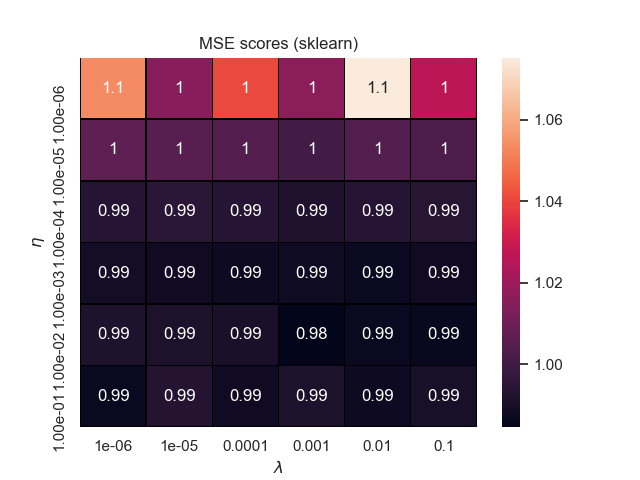
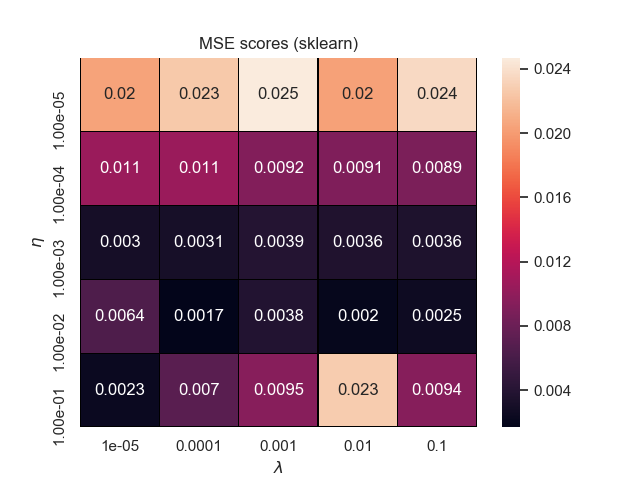
Small updates

diff --git a/Project2/main.py b/Project2/main.py
@@ -90,7 +90,7 @@ if arg == "Log":
 	= func.scikit(X_train, X_test, y_train, y_test, model)
 
 	# Calculating the different metrics
-	accuracy_test =  func.accuracy(model, y_test)
+	accuracy_test = func.accuracy(model, y_test)
 	TPR 	      = func.recall(y_test, model)
 	precision     = func.precision(y_test, model)
 	F1_score      = func.F1_score(y_test, model)
@@ -165,42 +165,40 @@ elif arg == "NN":
     n_hidden_neurons = 50 #not sure about number???
     n_categories 	 = 2
 
-    make_files = False
-    if make_files:
-        # grid search
-        for i, eta in enumerate(eta_vals):
-            for j, lmbd in enumerate(lmbd_vals):
-                dnn = NN(X_train_sc, Y_train_onehot, eta=eta, lmbd=lmbd, epochs=epochs, batch_size=batch_size, n_hidden_neurons=n_hidden_neurons, n_categories=n_categories)
-                dnn.train()
+    def heatmap():
+	    if make_files:
+	        # grid search
+	        for i, eta in enumerate(eta_vals):
+	            for j, lmbd in enumerate(lmbd_vals):
+	                dnn = NN(X_train_sc, Y_train_onehot, eta=eta, lmbd=lmbd, epochs=epochs, batch_size=batch_size, n_hidden_neurons=n_hidden_neurons, n_categories=n_categories)
+	                dnn.train()
 
-                DNN_numpy[i][j] = dnn
-                test_predict    = dnn.predict(X_test_sc)
+	                DNN_numpy[i][j] = dnn
+	                test_predict    = dnn.predict(X_test_sc)
 
-                accuracy_array[i][j] = accuracy_score(y_test, test_predict)
+	                accuracy_array[i][j] = accuracy_score(y_test, test_predict)
 
-                print("Learning rate  = ", eta)
-                print("Lambda = ", lmbd)
-                print("Accuracy score on test set: ", accuracy_score(y_test, test_predict))
-                print()
+	                print("Learning rate  = ", eta)
+	                print("Lambda = ", lmbd)
+	                print("Accuracy score on test set: ", accuracy_score(y_test, test_predict))
+	                print()
 
-        np.save('acc_score', accuracy_array)
-        np.save('eta_values', eta_vals)
-        np.save('lambda_values', lmbd_vals)
+	        np.save('acc_score', accuracy_array)
+	        np.save('eta_values', eta_vals)
+	        np.save('lambda_values', lmbd_vals)
 
-        P.map()
+	        P.map()
+    heatmap()
 
-
-    # Use best values
+    # Use best values from heatmap
     eta_final  = 1e-4
     lmbd_final = 1e-4
 
-	dnn_f = NN(X_train_sc, Y_train_onehot, eta=eta_final, lmbd=lmbd_final, epochs=epochs, batch_size=batch_size, n_hidden_neurons=n_hidden_neurons, n_categories=n_categories)
+    dnn_f = NN(X_train_sc, Y_train_onehot, eta=eta_final, lmbd=lmbd_final, epochs=epochs, batch_size=batch_size, n_hidden_neurons=n_hidden_neurons, n_categories=n_categories)
     dnn_f.train()
 
     y_predict = dnn_f.predict(X_test_sc)
-    #print(accuracy_score(y_test, y_predict))
-
-    model = y_predict
+    model     = y_predict
 
     p = func.probabilities(model)
     notP = 1 - np.ravel(p)
@@ -234,8 +232,6 @@ elif arg == "NN":
     print('The precision is : %.3f' % precision)
     print('The recall is    : %.3f' % TPR)
     print('The AUC is       : %.3f' % AUC_scikit)
-    print('The MSE value is : %.3f' % func.MeanSquaredError(y_test, model)) # NOE GALT HER
-    print('The R2 score is  : %.3f' % func.R2_ScoreFunction(y_test, model)) # NOE GALT HER
     print('-------------------------------------------')
 
 else:

diff --git a/Project2/nn_linreg_sklearn.py b/Project2/nn_linreg_sklearn.py
@@ -5,6 +5,7 @@ import sys
 import numpy 			 	 	as np
 import seaborn 			 	 	as sns
 import matplotlib.pyplot 	 	as plt
+import scikitplot       		as skplt
 
 from sklearn.neural_network  	import MLPRegressor
 from sklearn.metrics 		 	import mean_squared_error, classification_report, confusion_matrix
@@ -35,11 +36,11 @@ X      = func.create_X(XX, YY, n)
 
 X_train, X_test, y_train, y_test = train_test_split(X, z, test_size=1.0/k) # Ikke splitte?
 
-epochs     = 500 #1000
-batch_size = 50  #60 #500
+epochs     = 1000
+batch_size = 100
 
-eta_vals   = np.logspace(-7, -3, 5)
-lmbd_vals  = np.logspace(-7, -3, 5)
+eta_vals   = np.logspace(-5, -1, 5)
+lmbd_vals  = np.logspace(-5, -1, 5)
 
 MSE        = np.zeros((len(eta_vals), len(lmbd_vals)))
 R2         = np.zeros((len(eta_vals), len(lmbd_vals)))
@@ -58,16 +59,15 @@ def not_now():
 
 			reg.fit(X_train, y_train)
 			y_pred    = reg.predict(X_test)  # data
-			MSE[i][j] = mean_squared_error(y_test, y_pred)
-			R2[i][j]  = reg.score(X_test, y_test) # reg.score(X_test, y_pred)
+			model     = reg.predict(X).reshape(N,N)
 
-			#y_pred = np.reshape(y_pred, (N, N))
+			MSE[i][j] = func.MeanSquaredError(ZZ, model)
+			R2[i][j]  = func.R2_ScoreFunction(ZZ, model)
 
 			print("Learning rate = ", eta)
 			print("Lambda =        ", lmbd)
-			print("MSE score:      ", mean_squared_error(y_test, y_pred) )
-			print("R2 score:       ", reg.score(X_test, y_test) ) #reg.score(X_test, y_pred))
-			#print("R2 score:       ", reg.score(X_test, y_pred))  # Blir alltid 1.0
+			print("MSE score:      ", func.MeanSquaredError(ZZ, model))
+			print("R2 score:       ", func.R2_ScoreFunction(ZZ, model))
 			print()
 
 	etas = ["{:0.2e}".format(i) for i in eta_vals]
@@ -89,29 +89,25 @@ def not_now():
 #not_now()
 
 
-# Plot real function and model
+# Plot real function and model, with best lamb and eta
 #--------------------------------------------------------------------------
-lamb  = 0.0001
-alpha = lamb
-#eta   = 0.001  # Default
-eta   = 0.01
+lamb  = 1e-4
+eta   = 1e-2
 
 reg = MLPRegressor(	activation="relu", # Eller en annen?
     				solver="sgd",
     				learning_rate='constant',
-    				alpha=alpha,
+    				alpha=lamb,
 					learning_rate_init=eta,
     				max_iter=1000,
-    				tol=1e-5 ) # hidden_layer_sizes=(100,20) Bruke 1?
+    				tol=1e-5 )
 
 reg  = reg.fit(X_train, y_train)
 pred = reg.predict(X_test)
-print("MSE score on test set: ", mean_squared_error(y_test, pred))
-print("R2  score on test set: ", reg.score(X_test, y_test))  # Accuracy? Feil? Hva skal sendes inn?
-#MSE score on test set:  0.9901514153804305
-#R2  score on test set:  0.06982857708324741
+pred_ = reg.predict(X).reshape(N,N)
 
-pred = reg.predict(X).reshape(N,N)
+print("MSE score on test set: ", mean_squared_error(ZZ, pred_))
+print("R2  score on test set: ", func.R2_ScoreFunction(ZZ, pred_))
 
 fig  = plt.figure(); fig2 = plt.figure()
 #cmap = cm.PRGn; my_cmap_r = cm.get_cmap('PRGn_r')
@@ -124,7 +120,7 @@ ax2.set_title("Model (sklearn)", fontsize=16)
 surf = ax.plot_surface(XX, YY, ZZ, cmap=cm.inferno, #my_cmap_r
                        linewidth=0, antialiased=False)
 
-surf2 = ax2.plot_surface(XX, YY, pred, cmap=cm.inferno,
+surf2 = ax2.plot_surface(XX, YY, pred_, cmap=cm.inferno,
                        linewidth=0, antialiased=False)
 
 # Customize the z axis.
